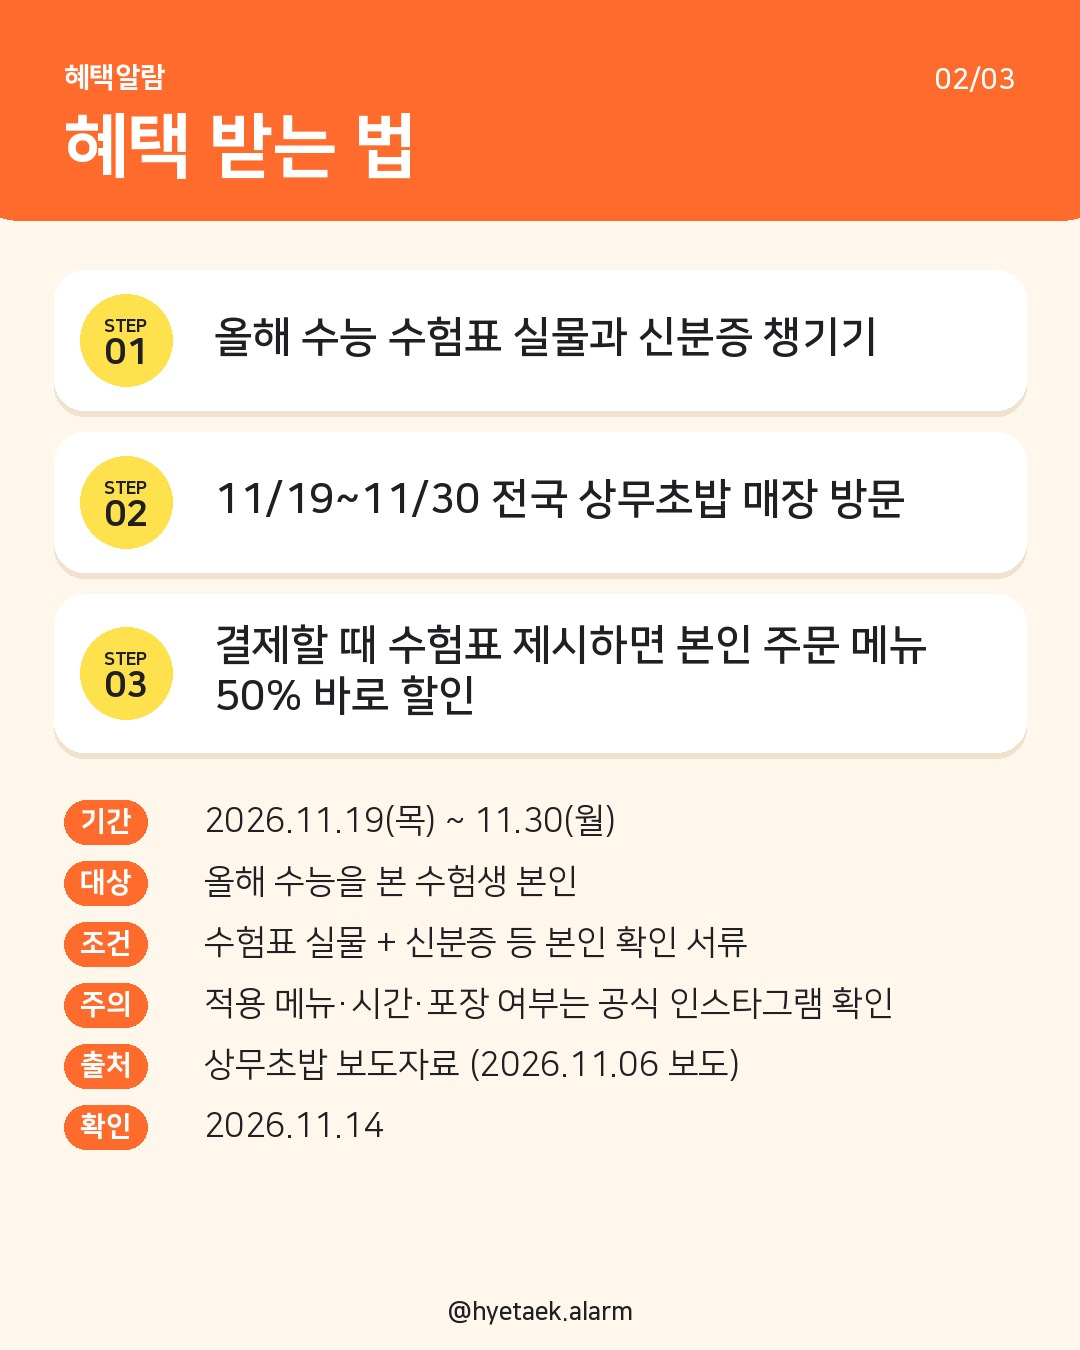
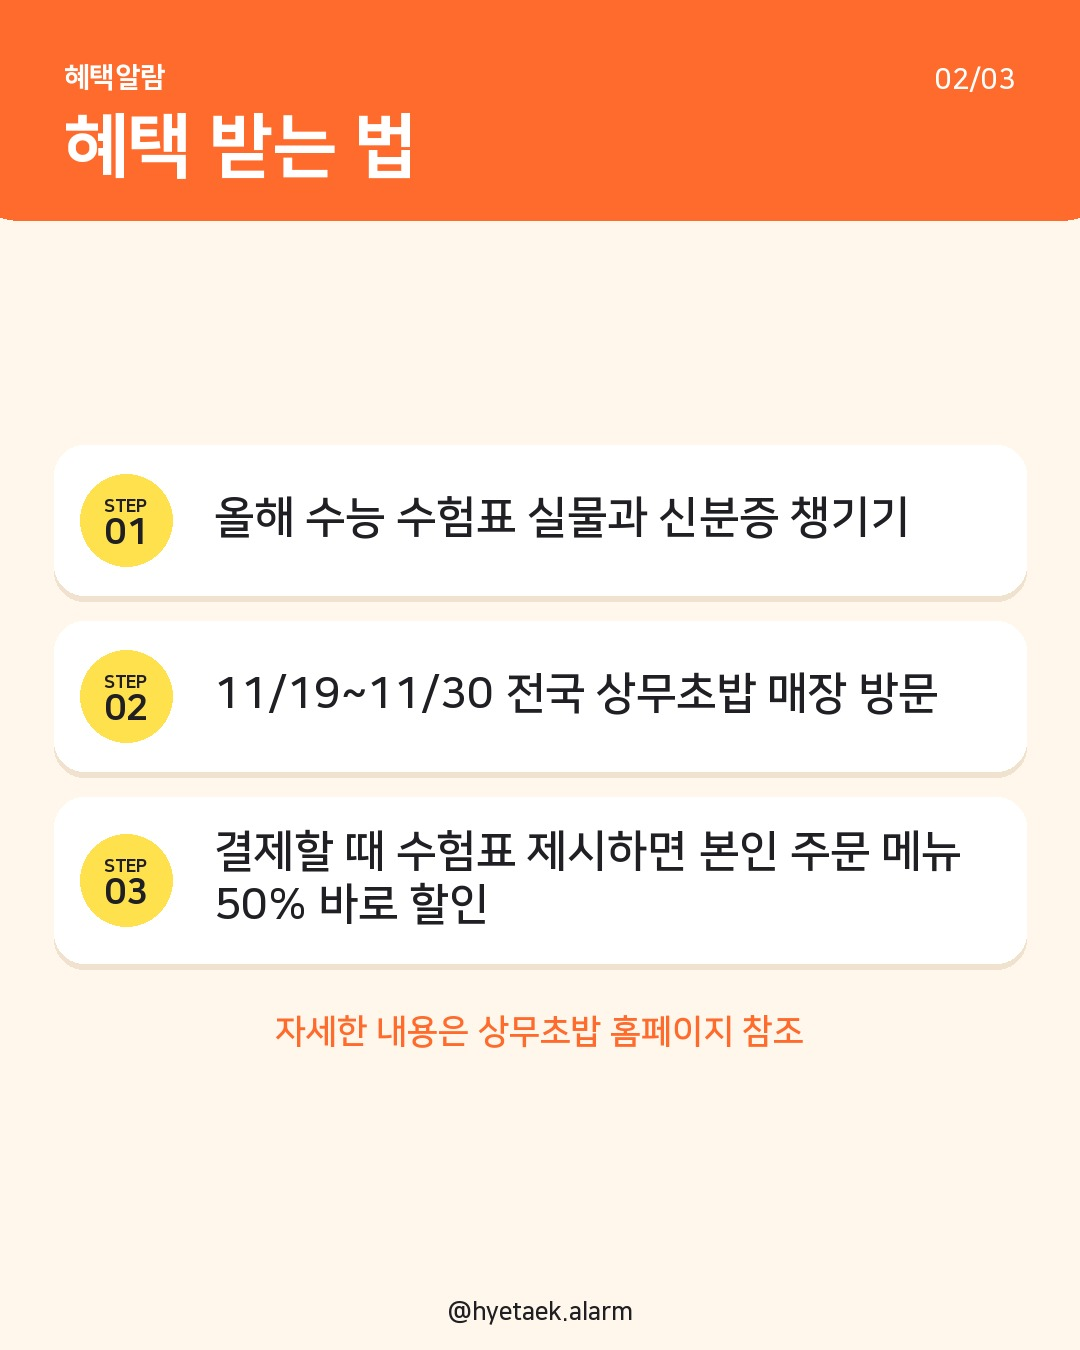
혜택 받는 법: 정보 표 대신 '자세한 내용은 ○○ 홈페이지 참조' 한 줄, STEP 세로 가운데
Claude-Session: https://claude.ai/code/session_013eU9upJ36tdqKzB4UjrVYH

Changed region(s): [[0.0611, 0.2178, 0.9472, 0.8711], [0.6111, 0.2178, 0.825, 0.28], [0.4889, 0.2178, 0.5806, 0.28]]

diff --git a/screendaily/cards.py b/screendaily/cards.py
@@ -1095,11 +1095,19 @@ def render_steps(post: Post, item: Item, idx: int, total: int, config: dict) -> 
     cut = next((i for i, ln in enumerate(raw) if ln.strip() == "---"), len(raw))
     steps = [ln.strip() for ln in raw[:cut] if ln.strip()]
     info = [ln.split("|", 1) for ln in raw[cut + 1:] if "|" in ln]
-    sf = font(B, 42)
-    y = 270
-    for i, st in enumerate(steps, 1):
-        lines = wrap(st, sf, W - 2 * M - 180)
-        h = max(140, block_h(sf, lines) + 56)
+    notes = [ln.strip() for ln in raw[cut + 1:] if ln.strip() and "|" not in ln]  # '---' 아래 한 줄 안내
+    sf, nf = font(B, 44), font(B, 34)
+    kf, vf = font(EB, 28), font(R, 34)
+    step_l = [wrap(st, sf, W - 2 * M - 180) for st in steps]
+    step_h = [max(150, block_h(sf, ls) + 60) for ls in step_l]
+    info_l = [wrap(v.strip(), vf, W - 2 * M - 140) for _, v in info]
+    note_l = [wrap(t, nf, W - 2 * M - 40) for t in notes]
+    content = sum(step_h) + 26 * max(0, len(steps) - 1) \
+        + (40 + sum(block_h(vf, vl) + 18 for vl in info_l) if info else 0) \
+        + (50 + sum(block_h(nf, nl) + 10 for nl in note_l) if notes else 0)
+    top, bottom = 260, H - 100
+    y = top + max(0, (bottom - top - content) // 2)  # 내용이 적으면 세로 가운데
+    for i, (lines, h) in enumerate(zip(step_l, step_h), 1):
         d.rounded_rectangle((M - 10, y + 6, W - M + 10, y + h + 6), radius=30, fill=(240, 226, 206))
         d.rounded_rectangle((M - 10, y, W - M + 10, y + h), radius=30, fill=(255, 255, 255))
         cx, cy = M + 62, y + h / 2
@@ -1107,15 +1115,18 @@ def render_steps(post: Post, item: Item, idx: int, total: int, config: dict) -> 
         d.text((cx, cy - 14), "STEP", font=font(EB, 18), fill=c["ink"], anchor="mm")
         d.text((cx, cy + 12), f"{i:02d}", font=font(EB, 36), fill=c["ink"], anchor="mm")
         draw_lines(d, lines, sf, M + 150, y + (h - block_h(sf, lines)) / 2, c["ink"])
-        y += h + 22
-    y += 26
-    kf, vf = font(EB, 28), font(R, 34)
-    for k, v in info:
-        vl = wrap(v.strip(), vf, W - 2 * M - 140)
-        kw = _tw(kf, k.strip()) + 32
-        d.rounded_rectangle((M, y, M + kw, y + 44), radius=22, fill=c["accent"])
-        d.text((M + kw / 2, y + 22), k.strip(), font=kf, fill=(255, 255, 255), anchor="mm")
-        y = draw_lines(d, vl, vf, M + 140, y + 2, c["ink"]) + 18
+        y += h + 26
+    if info:
+        y += 14
+        for (k, _), vl in zip(info, info_l):
+            kw = _tw(kf, k.strip()) + 32
+            d.rounded_rectangle((M, y, M + kw, y + 44), radius=22, fill=c["accent"])
+            d.text((M + kw / 2, y + 22), k.strip(), font=kf, fill=(255, 255, 255), anchor="mm")
+            y = draw_lines(d, vl, vf, M + 140, y + 2, c["ink"]) + 18
+    if notes:
+        y += 24
+        for nl in note_l:
+            y = draw_lines(d, nl, nf, 0, y, c["accent"], anchor_center=True) + 10
     _watermark(canvas, config, color=c["ink"] + (120,), shadow=False)
     return canvas.convert("RGB")
 

diff --git a/CLAUDE.md b/CLAUDE.md
@@ -22,6 +22,6 @@
 
 ## 그 밖에
 - 혜택·할인 정보 게시물(통신사·카드·브랜드 이벤트·쿠폰 등 모든 혜택)은 스크린데일리가 아닌 **별도 채널 '혜택알람'(@hyetaek.alarm)** 이다. `channel: deals` 를 꼭 적는다 (이름·아이디·해시태그·마지막 장이 그 채널 것으로 바뀜, 업로드 계정도 다름).
-- 혜택알람은 **혜택 하나당 캐러셀 3장 고정**: 01 사진 표지(`cover_style: photo`, 후킹용: title 첫 줄 브랜드·둘째 줄 혜택 핵심만, 혜택 줄은 짧게 예: '수험생 반값') → 02 혜택 받는 법(`type: steps`, STEP + `---` 아래 기간·대상·조건·주의·출처·확인) → 03 고정 팔로우 카드. 디자인은 밝고 젊은 톤(오렌지·레몬·크림, `config.yml` 채널 `alarm:`). 모든 장 하단 가운데에 채널 주소 워터마크(퍼가기 방지). 공식 확인 안 된 조건은 카드에 쓰지 않는다. 다른 할인 계정의 디자인·문구·스티커를 그대로 따라 하지 않는다. 예시 `drafts/deal_sangmu_1119/`
+- 혜택알람은 **혜택 하나당 캐러셀 3장 고정**: 01 사진 표지(`cover_style: photo`, 후킹용: title 첫 줄 브랜드·둘째 줄 혜택 핵심만, 혜택 줄은 짧게 예: '수험생 반값') → 02 혜택 받는 법(`type: steps`, STEP 3개 + `---` 아래 '자세한 내용은 ○○ 홈페이지 참조' 한 줄. 기간·조건·출처는 caption 에) → 03 고정 팔로우 카드. 디자인은 밝고 젊은 톤(오렌지·레몬·크림, `config.yml` 채널 `alarm:`). 모든 장 하단 가운데에 채널 주소 워터마크(퍼가기 방지). 공식 확인 안 된 조건은 카드에 쓰지 않는다. 다른 할인 계정의 디자인·문구·스티커를 그대로 따라 하지 않는다. 예시 `drafts/deal_sangmu_1119/`
 - 초안·시안은 `drafts/` 에 `draft: true` 로 만든다. `queue/` 에 넣으면 예약 시간에 자동 업로드된다.
 - 자동 업로드는 main 브랜치의 `queue/` 만 본다.

diff --git a/README.md b/README.md
@@ -128,7 +128,7 @@ git add queue && git commit -m "다음 주 예약" && git push
 
 ## 혜택알람 3장 고정 형식 (현재 기본)
 - 01 표지: `cover_style: photo` — 사진을 크게, `title` 첫 줄 = 브랜드(흰색), 둘째 줄 = 혜택(노란색, 가장 크게). 사진은 02 카드의 `wiki:`/`image:`
-- 02 혜택 받는 법: `type: steps` — `desc` 의 `---` 위 줄 = STEP 01·02·03, 아래 `항목 | 내용` = 기간·대상·조건·주의·출처·확인
+- 02 혜택 받는 법: `type: steps` — `desc` 의 `---` 위 줄 = STEP 01·02·03, 아래 한 줄 = 안내 문구(예: 자세한 내용은 상무초밥 홈페이지 참조). `항목 | 내용` 줄을 쓰면 정보 표로 나옴
 - 03 팔로우 카드: 채널 설정 `outro.style: follow_card` (모든 게시물 같은 템플릿, 문구는 `outro.title`·`outro.sub`)
 - 페이지 번호 01/03 자동, 채널 설정 `png: true` 면 out/ 에 PNG 도 저장 (인스타 업로드는 JPG)
 - 예시: `drafts/deal_sangmu_1119/`
